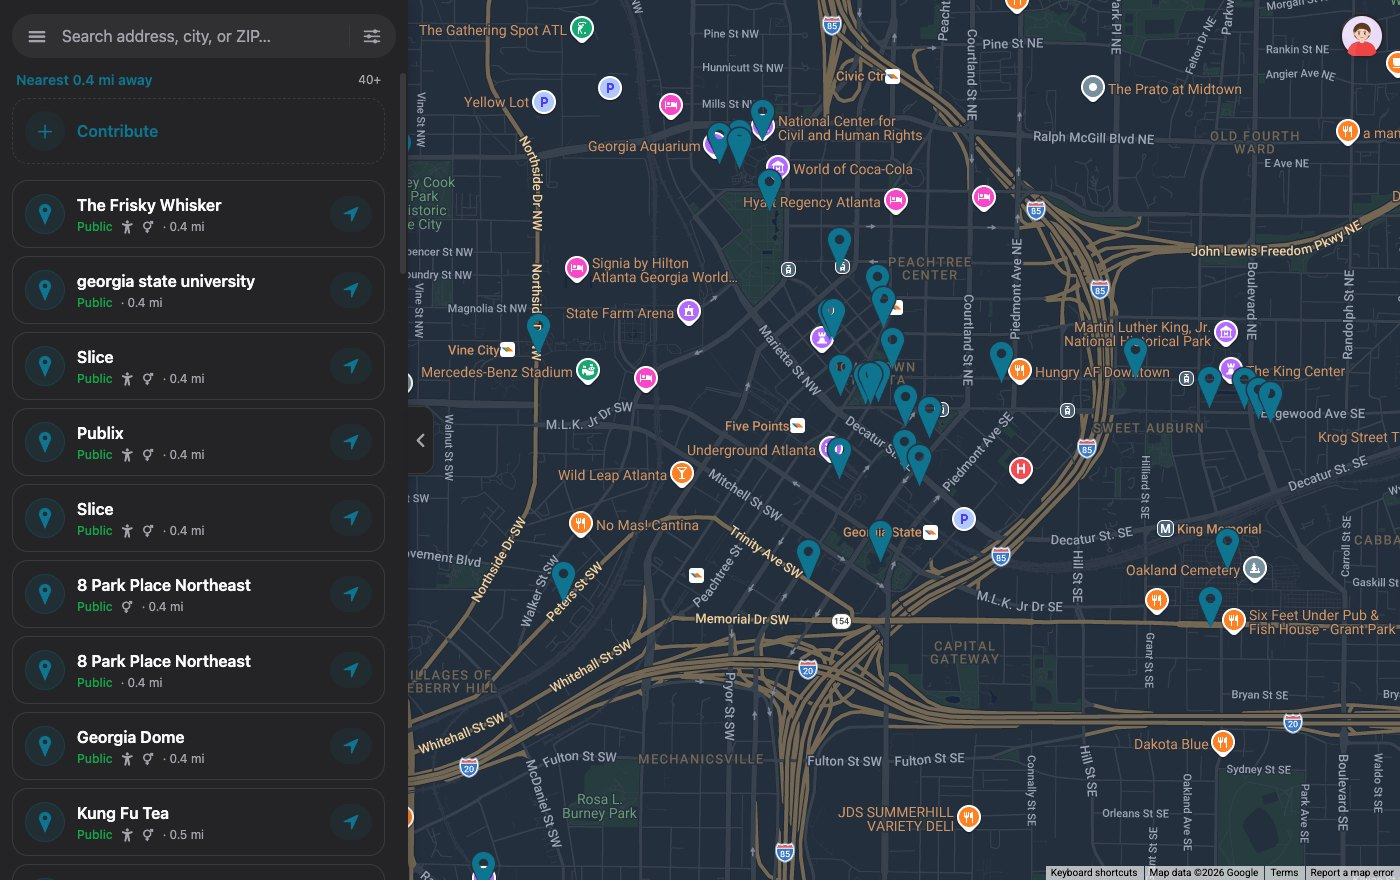
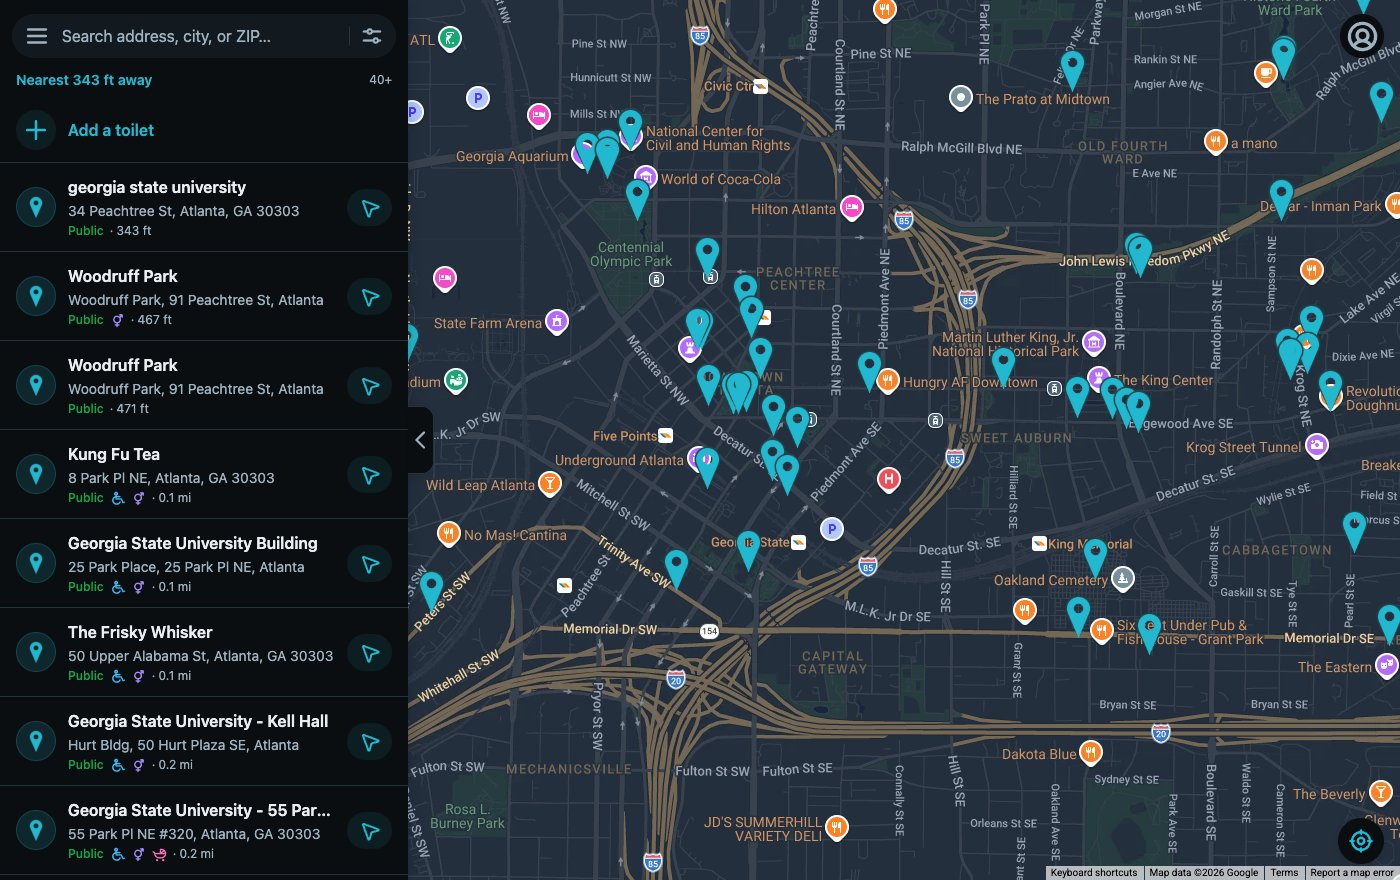
Info page: restyled screenshots and working store links
The Android, iPhone and web screenshots predated the restyle (five tabs, old
teal). They now show the current app. The App Store buttons and the footer's
Open source, Privacy and Support links all pointed at #. App Store goes to the
listing; the Google Play buttons stay hidden until api/store-status sees the
Play listing live. cm-web.jpg is also the site's link preview image.

diff --git a/marketing/info.template.html b/marketing/info.template.html
@@ -121,6 +121,7 @@
     .phone.p1 { transform: rotate(-5deg) translateX(24px) translateY(14px); }
     .phone.p2 { transform: rotate(4deg) translateX(-24px); }
   }
+  .store[hidden] { display: none; }
 </style>
 
 <div class="bg" aria-hidden="true">
@@ -144,11 +145,11 @@
       <h1>Gotta go?<br><span class="accent">We got you.</span></h1>
       <p class="lede">Every bathroom near you on one map, with the stuff that actually matters. Is it public? Is there a code? Do you have to buy something? Real answers from people who've been there.</p>
       <div class="cta-row">
-        <a class="store" href="#">
+        <a class="store" href="https://apps.apple.com/us/app/crapple-maps/id6795301489">
           <svg width="22" height="26" viewBox="0 0 22 26" fill="#ffffff"><path d="M15.4 13.7c0-2.5 2-3.7 2.1-3.8-1.1-1.7-2.9-1.9-3.5-1.9-1.5-.2-2.9.9-3.6.9-.8 0-1.9-.9-3.1-.8-1.6 0-3.1.9-3.9 2.4-1.7 2.9-.4 7.2 1.2 9.6.8 1.2 1.7 2.5 3 2.4 1.2-.1 1.6-.8 3.1-.8 1.5 0 1.8.8 3.1.8 1.3 0 2.1-1.2 2.9-2.4.9-1.4 1.3-2.7 1.3-2.8-.1 0-2.6-1-2.6-3.8zM13 5.9c.7-.8 1.1-2 1-3.2-1 0-2.2.7-2.9 1.5-.6.7-1.2 1.9-1 3 1.1.1 2.2-.6 2.9-1.3z"/></svg>
           <span class="lbl"><small>Download on the</small><b>App Store</b></span>
         </a>
-        <a class="store" href="#">
+        <a class="store" href="https://play.google.com/store/apps/details?id=com.austinrt.crapplemaps" data-store="android" hidden>
           <svg width="22" height="24" viewBox="0 0 22 24" fill="none"><path d="M2 1.3C1.7 1.6 1.5 2 1.5 2.6v18.8c0 .6.2 1 .5 1.3l11-11.7L2 1.3z" fill="#00d4ff"/><path d="M17 8.6l-3.6-2.1L2.4.9C2.6.8 2.9.8 3.2 1l13.8 7.6z" fill="#00e676"/><path d="M17 15.4L3.2 23c-.3.2-.6.2-.8 0l11-11.7L17 15.4z" fill="#ff3d57"/><path d="M21 11.1c.4.2.6.6.6 1s-.2.8-.6 1l-4 2.3-3.2-3.3 3.2-3.3 4 2.3z" fill="#ffc107"/></svg>
           <span class="lbl"><small>Get it on</small><b>Google Play</b></span>
         </a>
@@ -206,11 +207,11 @@
       <p class="kicker" style="color:var(--teal)">Go with confidence</p>
       <h2>Never get caught out again.</h2>
       <div class="cta-row">
-        <a class="store" href="#">
+        <a class="store" href="https://apps.apple.com/us/app/crapple-maps/id6795301489">
           <svg width="22" height="26" viewBox="0 0 22 26" fill="#ffffff"><path d="M15.4 13.7c0-2.5 2-3.7 2.1-3.8-1.1-1.7-2.9-1.9-3.5-1.9-1.5-.2-2.9.9-3.6.9-.8 0-1.9-.9-3.1-.8-1.6 0-3.1.9-3.9 2.4-1.7 2.9-.4 7.2 1.2 9.6.8 1.2 1.7 2.5 3 2.4 1.2-.1 1.6-.8 3.1-.8 1.5 0 1.8.8 3.1.8 1.3 0 2.1-1.2 2.9-2.4.9-1.4 1.3-2.7 1.3-2.8-.1 0-2.6-1-2.6-3.8zM13 5.9c.7-.8 1.1-2 1-3.2-1 0-2.2.7-2.9 1.5-.6.7-1.2 1.9-1 3 1.1.1 2.2-.6 2.9-1.3z"/></svg>
           <span class="lbl"><small>Download on the</small><b>App Store</b></span>
         </a>
-        <a class="store" href="#">
+        <a class="store" href="https://play.google.com/store/apps/details?id=com.austinrt.crapplemaps" data-store="android" hidden>
           <svg width="22" height="24" viewBox="0 0 22 24" fill="none"><path d="M2 1.3C1.7 1.6 1.5 2 1.5 2.6v18.8c0 .6.2 1 .5 1.3l11-11.7L2 1.3z" fill="#00d4ff"/><path d="M17 8.6l-3.6-2.1L2.4.9C2.6.8 2.9.8 3.2 1l13.8 7.6z" fill="#00e676"/><path d="M17 15.4L3.2 23c-.3.2-.6.2-.8 0l11-11.7L17 15.4z" fill="#ff3d57"/><path d="M21 11.1c.4.2.6.6.6 1s-.2.8-.6 1l-4 2.3-3.2-3.3 3.2-3.3 4 2.3z" fill="#ffc107"/></svg>
           <span class="lbl"><small>Get it on</small><b>Google Play</b></span>
         </a>
@@ -230,11 +231,18 @@
       </div>
       <div class="foot-links">
         <a href="https://crapplemaps.com">Web app</a>
-        <a href="#">Open source</a>
-        <a href="#">Privacy</a>
-        <a href="#">Support</a>
+        <a href="https://github.com/austin-rt/crapple-maps">Open source</a>
+        <a href="/privacy">Privacy</a>
+        <a href="/contact">Support</a>
       </div>
       <div class="copy">&copy; 2026 Crapple Maps. All rights reserved.</div>
     </div>
   </footer>
 </main>
+<script>
+  // The Google Play listing 404s until Google approves the first release, so its
+  // buttons stay hidden until api/store-status sees the listing live.
+  fetch('/api/store-status').then(function (r) { return r.json(); }).then(function (j) {
+    if (j && j.android) document.querySelectorAll('[data-store="android"]').forEach(function (a) { a.hidden = false; });
+  }).catch(function () {});
+</script>
